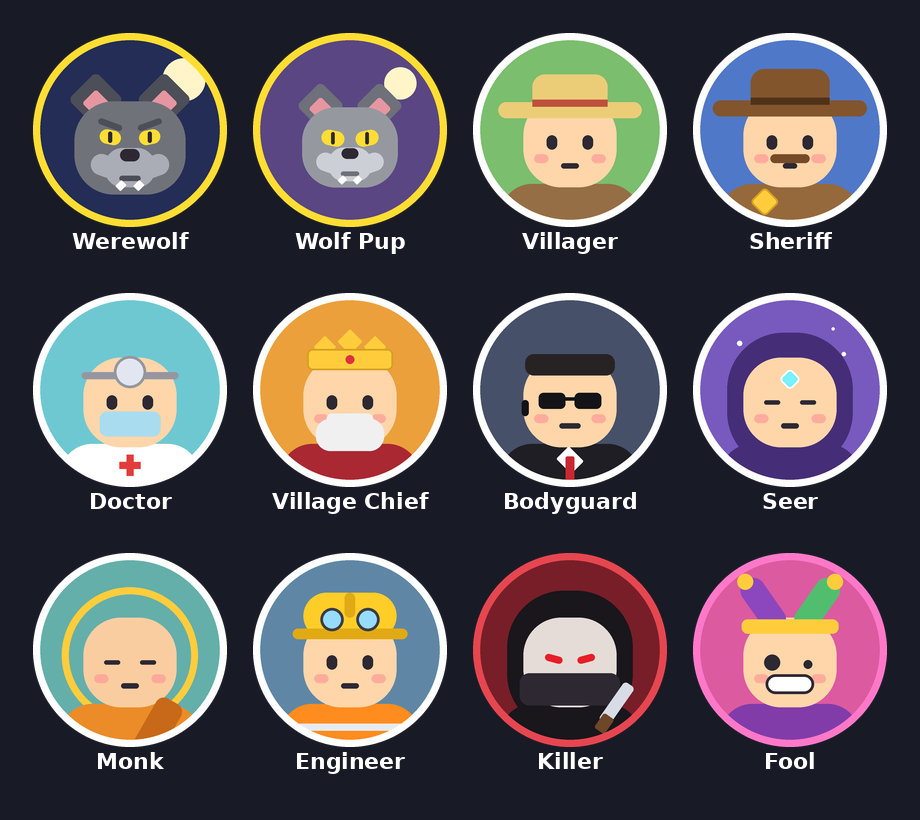
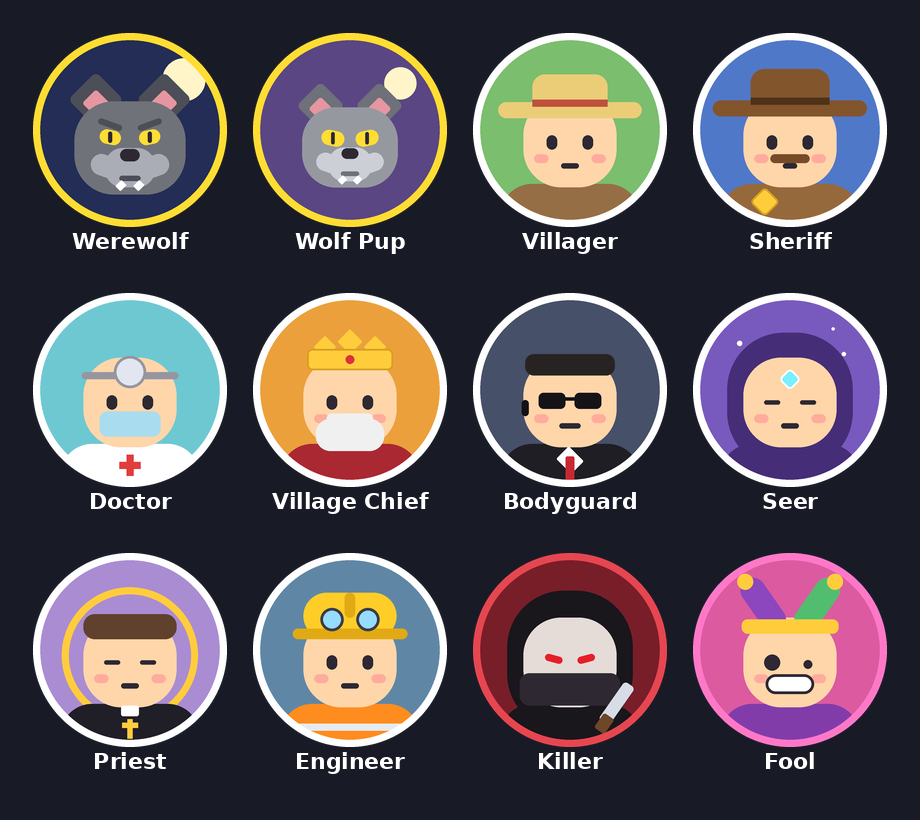
Rename the Monk role to Priest; rewrite how-to-play pages 3-6
- Role id Monk -> Priest everywhere (Config, abilities, product key
  RolePriest, strings "Priest" / "นักบวช", tests, GDD and docs). No player
  data exists yet, so the id can still change safely.
- New Priest icon: hair, black cassock, white collar, gold cross, halo.
- How to play (owner's wording): page 3 without the hit count; page 4 warns
  that the one you help might not be on your side; page 5 "Special roles"
  (Killer, Fool) are not on your side; page 6 "Survive!".
- Previews re-rendered (role_icons, role_roll_mock, tutorial_pages).

Claude-Session: https://claude.ai/code/session_011hvL8gHdr9M8cqrghzp7Bv

Changed region(s): [[0.0304, 0.6707, 0.2435, 0.9451]]

diff --git a/docs/OWNER_TODO.md b/docs/OWNER_TODO.md
@@ -40,7 +40,7 @@
 | 32 | บอดี้การ์ดพุ่งชนหมาป่าที่ยังเป็นร่างคน (กลางวัน) จะสตั้นไหม? ถ้าสตั้นจะเผยตัวหมาป่าทันที | ไม่สตั้น — สตั้นเฉพาะหมาป่าในร่างหมาป่า (กลางคืน) |
 | 33 | ปืนนายอำเภอ: ยิงพลาดถือว่าใช้ไปแล้วไหม? ยิงระหว่างประชุมได้ไหม? | ยิงพลาดก็นับ / ระหว่างประชุมและช่วงเตือนพระจันทร์เต็มดวงใช้สกิลใดๆ ไม่ได้ |
 | 34 | มีดฆาตกร: แทงพลาด (ไม่มีใครในระยะ) นับว่าใช้ไหม? แทงหมาป่าได้ไหม? | ไม่นับ / แทงหมาป่าได้ ตายทีเดียว |
-| 35 | หลวงพ่อ: "ตอนเช้า" หมายถึงทั้งช่วงกลางวัน หรือเฉพาะต้นวัน? คนที่ได้รับพรรู้ตัวไหม? พรกันกระสุนสตั้นด้วยไหม? | ทั้งช่วงกลางวัน / ไม่รู้จนพรช่วยชีวิต / กันเฉพาะหมาป่า ลูกหมาป่า และมีดฆาตกร |
+| 35 | นักบวช: "ตอนเช้า" หมายถึงทั้งช่วงกลางวัน หรือเฉพาะต้นวัน? คนที่ได้รับพรรู้ตัวไหม? พรกันกระสุนสตั้นด้วยไหม? | ทั้งช่วงกลางวัน / ไม่รู้จนพรช่วยชีวิต / กันเฉพาะหมาป่า ลูกหมาป่า และมีดฆาตกร |
 | 36 | หมอชุบได้ตอนไหน? ชุบแล้วฟื้นที่ไหน? | ได้ทั้งกลางวันและกลางคืน (ศพต้องตายตอนกลางคืน) / ฟื้นตรงที่ศพนอนอยู่ |
 | 37 | ประตูที่วิศวกรเสริมแล้วจะเห็นเป็นเหล็กสำหรับทุกคน — โอเคไหม? (หมาป่าจะรู้ว่าบ้านไหนเสริม) | ทุกคนเห็น |
 | 38 | ไฟฉายของชาวบ้าน: เป็นแสงจริงที่คนอื่นเห็นด้วย (เปิด/ปิดได้ กด F) | ตามนี้ |
@@ -152,7 +152,7 @@
 | `KnifeStab` | มีดฆาตกร | knife stab | |
 | `BodyguardDash` | บอดี้การ์ดพุ่ง | dash whoosh | |
 | `Revive` | หมอชุบชีวิต | heal / revive magic | |
-| `Blessing` | หลวงพ่อให้พร | holy chime / bless | |
+| `Blessing` | นักบวชให้พร | holy chime / bless | |
 | `BlessingBreak` | พร / Cross กันการโจมตีแล้วแตก | shield break / glass shatter | |
 | `Reinforce` | วิศวกรเสริมประตู | hammer wood / metal clank | |
 | `AppleEat` | กินแอปเปิ้ล | apple bite / crunch | |
@@ -186,7 +186,7 @@
 | `RoleChief` | Role: Village Chief | 99 |
 | `RoleBodyguard` | Role: Bodyguard | 99 |
 | `RoleSeer` | Role: Seer | 199 |
-| `RoleMonk` | Role: Monk | 199 |
+| `RolePriest` | Role: Priest | 199 |
 | `RoleEngineer` | Role: Engineer | 199 |
 | `RoleKiller` | Role: Killer | 399 |
 | `RoleFool` | Role: Fool | 399 |

diff --git a/GDD.md b/GDD.md
@@ -167,7 +167,7 @@
 | ผู้หยั่งรู้ | ชาวบ้าน | เห็นผู้รอดชีวิตทุกคนทะลุกำแพงเป็น Highlight สีขาว (เห็นแค่ตัว) 5 วินาที ใช้ได้คืนละครั้ง |
 | หัวหน้าหมู่บ้าน | ชาวบ้าน | โหวตได้ 2 เสียง และชนะกรณีคะแนนเสมอ ("Ahem!") |
 | บอดี้การ์ด | ชาวบ้าน | พุ่งไปข้างหน้า ถ้าชนหมาป่าจะสตั้น 5 วินาที พุ่งทะลุคนอื่นได้ (รวมถึงฆาตกร) คูลดาวน์ 30 วินาที |
-| หลวงพ่อ | ชาวบ้าน | ตอนเช้าเลือกให้พร 1 คน (รวมถึงตัวเองได้) พรกันการโจมตีของหมาป่าหรือมีดฆาตกรได้ 1 ครั้ง หายไปเองเช้าวันถัดไป |
+| นักบวช | ชาวบ้าน | ตอนเช้าเลือกให้พร 1 คน (รวมถึงตัวเองได้) พรกันการโจมตีของหมาป่าหรือมีดฆาตกรได้ 1 ครั้ง หายไปเองเช้าวันถัดไป |
 | วิศวกร | ชาวบ้าน | เสริมประตูให้เลือดเต็มและเลือดสูงสุด ×2 ใช้ได้กลางวัน 1 ครั้ง + กลางคืน 1 ครั้ง เสริมบ้านคนอื่นได้ (ตอนกลางวันต้องเดาบ้าน) ที่เสริมตอนเช้าจะอยู่ถึงคืนนั้น และหายไปทุกเช้าวันใหม่ |
 | ฆาตกร | ตัวเอง | เกิดมาพร้อมมีด ฆ่าได้ทีเดียวตาย กลางวัน 1 ครั้ง + กลางคืน 1 ครั้ง ถือปืนไม่ได้ ออกจากบ้านตอนกลางคืนได้ด้วยการเปิดประตู |
 | คนบ้า | ตัวเอง | ชนะเมื่อถูกโหวตไล่ออกเท่านั้น |
@@ -230,7 +230,7 @@
 |---|---|---|---|---|---|
 | ฟรี | ชาวบ้าน, นายอำเภอ, หมอ | 0 | — | 1 | — |
 | 1 | หัวหน้าหมู่บ้าน, บอดี้การ์ด | 1,200 | 99 | 5 | ~10 |
-| 2 | ผู้หยั่งรู้, หลวงพ่อ, วิศวกร | 2,500 | 199 | 10 | ~20 |
+| 2 | ผู้หยั่งรู้, นักบวช, วิศวกร | 2,500 | 199 | 10 | ~20 |
 | 3 | ฆาตกร, คนบ้า | 5,000 | 399 | 20 | ~40 |
 
 แพ็ก coin: 500 = 49 R$ / 1,200 = 99 R$ / 2,600 = 199 R$ / 7,000 = 499 R$

diff --git a/docs/TEST_CHECKLISTS.md b/docs/TEST_CHECKLISTS.md
@@ -93,7 +93,7 @@
 - [ ] ฆาตกร: กด R แทงคนตรงหน้าตายทันที วันละ 1 คืนละ 1, แทงลมไม่เสียสิทธิ์
 - [ ] ผู้หยั่งรู้: กลางคืนกด Q เห็นทุกคนเป็นเงาขาวทะลุกำแพง 5 วินาที คืนละครั้ง (กลางวันกดไม่ได้)
 - [ ] บอดี้การ์ด: กด Q พุ่งไปข้างหน้า ทะลุคนอื่นได้ ชนกำแพงแล้วหยุด, คูลดาวน์ 30 วินาที
-- [ ] หลวงพ่อ: กลางวันกด Q ขึ้นรายชื่อคน เลือกได้ 1 คน (รวมตัวเอง) ขึ้นข้อความ "คุณให้พร ... แล้ว"
+- [ ] นักบวช: กลางวันกด Q ขึ้นรายชื่อคน เลือกได้ 1 คน (รวมตัวเอง) ขึ้นข้อความ "คุณให้พร ... แล้ว"
 - [ ] วิศวกร: เดินไปที่ประตูบ้านหลังไหนก็ได้ มีปุ่ม "เสริมประตู" (กด R ค้าง) → ประตูกลายเป็นเหล็ก, กลางคืนหลอดเลือดยาวขึ้นเท่าตัว, กลางวันกับกลางคืนอย่างละครั้ง
 - [ ] หมอ: ศพของคนที่ตายตอนกลางคืนมีปุ่ม "ชุบชีวิต" (กด E ค้าง 3 วินาที) → ศพลุกขึ้นมามีชีวิต, ทั้งเกมชุบได้ครั้งเดียว
 - [ ] ชาวบ้าน: กด F เปิด/ปิดไฟฉาย (ลองตอนกลางคืน)
